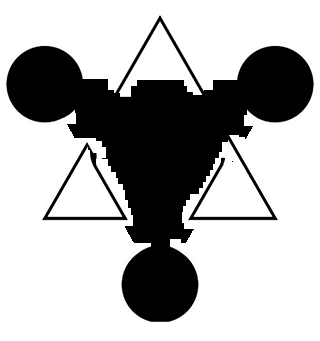
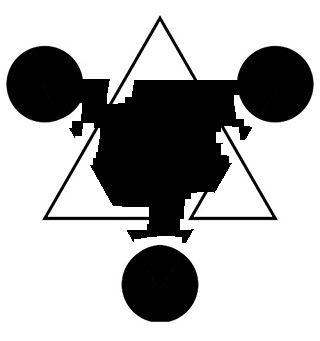
changed filter to Scharr

diff --git a/code/inpainting/compute.py b/code/inpainting/compute.py
@@ -114,15 +114,15 @@ def computeGradient(psiHatP=None, inpaintedImage=None, filledImage=None):
     ## PLACE YOUR CODE BETWEEN THESE LINES ##
     #########################################
     # Sobel filter kernel size
-    kw = 2
+    kw = 1
     sobel_size = 2 * kw + 1
     # Get target patch pixels
     inpainted, _ = copyutils.getWindow(inpaintedImage, psiHatP._coords, psiHatP._w)
     inpainted = cv.cvtColor(inpainted, cv.COLOR_BGR2GRAY)
     filled, _ = copyutils.getWindow(filledImage, psiHatP._coords, psiHatP._w)
-    # Using Sobel filter to calculate gradients at each pixel
-    Gx = cv.Sobel(src=inpainted, ddepth=cv.CV_32F, dx=1, dy=0, ksize=sobel_size, borderType=cv.BORDER_REPLICATE)
-    Gy = cv.Sobel(src=inpainted, ddepth=cv.CV_32F, dx=0, dy=1, ksize=sobel_size, borderType=cv.BORDER_REPLICATE)
+    # Using Sobel/Scharr filter to calculate gradients at each pixel
+    Gx = cv.Scharr(src=inpainted, ddepth=cv.CV_32F, dx=1, dy=0, borderType=cv.BORDER_REPLICATE)
+    Gy = cv.Scharr(src=inpainted, ddepth=cv.CV_32F, dx=0, dy=1, borderType=cv.BORDER_REPLICATE)
     # Valid gradient should be calculated from all filled pixels
     erode_kernel = np.ones((sobel_size,sobel_size),np.uint8)
     filled_eroded = cv.erode(filled, erode_kernel, borderType=cv.BORDER_REPLICATE,iterations=1)
@@ -179,13 +179,13 @@ def computeNormal(psiHatP=None, filledImage=None, fillFront=None):
     #########################################
     ## PLACE YOUR CODE BETWEEN THESE LINES ##
     #########################################
-    kw = 4
+    kw = 1
     size = 2 * kw + 1
     # Get target patch's pixels in fill front image
     front, _ = copyutils.getWindow(fillFront, psiHatP._coords, kw)
     # Center pixel's gradient
-    Gx = cv.Sobel(src=front, ddepth=cv.CV_32F, dx=1, dy=0, ksize=size, borderType=cv.BORDER_REPLICATE)[kw][kw]
-    Gy = cv.Sobel(src=front, ddepth=cv.CV_32F, dx=0, dy=1, ksize=size, borderType=cv.BORDER_REPLICATE)[kw][kw]
+    Gx = cv.Scharr(src=front, ddepth=cv.CV_32F, dx=1, dy=0, borderType=cv.BORDER_REPLICATE)[kw][kw]
+    Gy = cv.Scharr(src=front, ddepth=cv.CV_32F, dx=0, dy=1, borderType=cv.BORDER_REPLICATE)[kw][kw]
     # Change to unit vector
     d = np.sqrt(Gy**2 + Gx**2)
     if d != 0:
